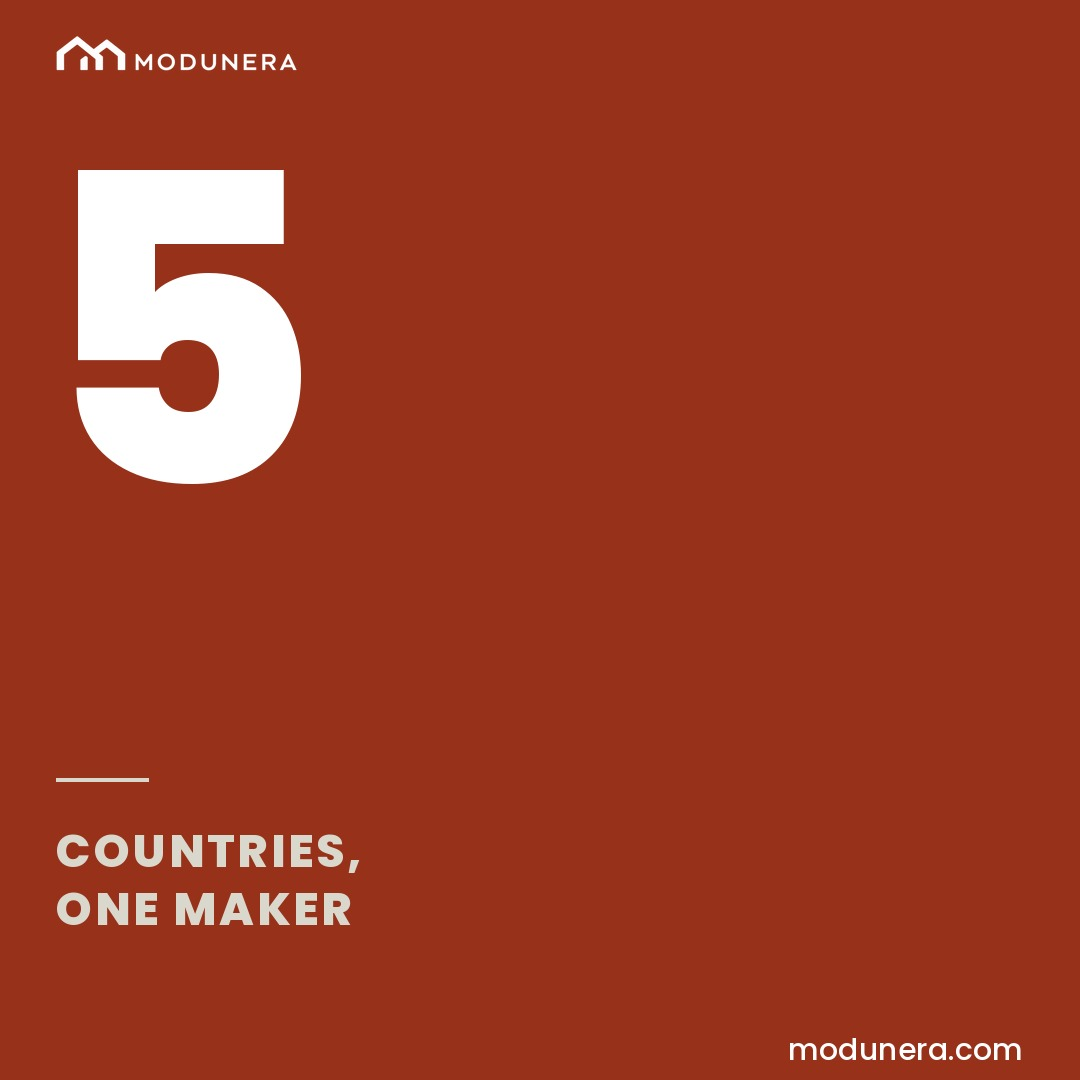
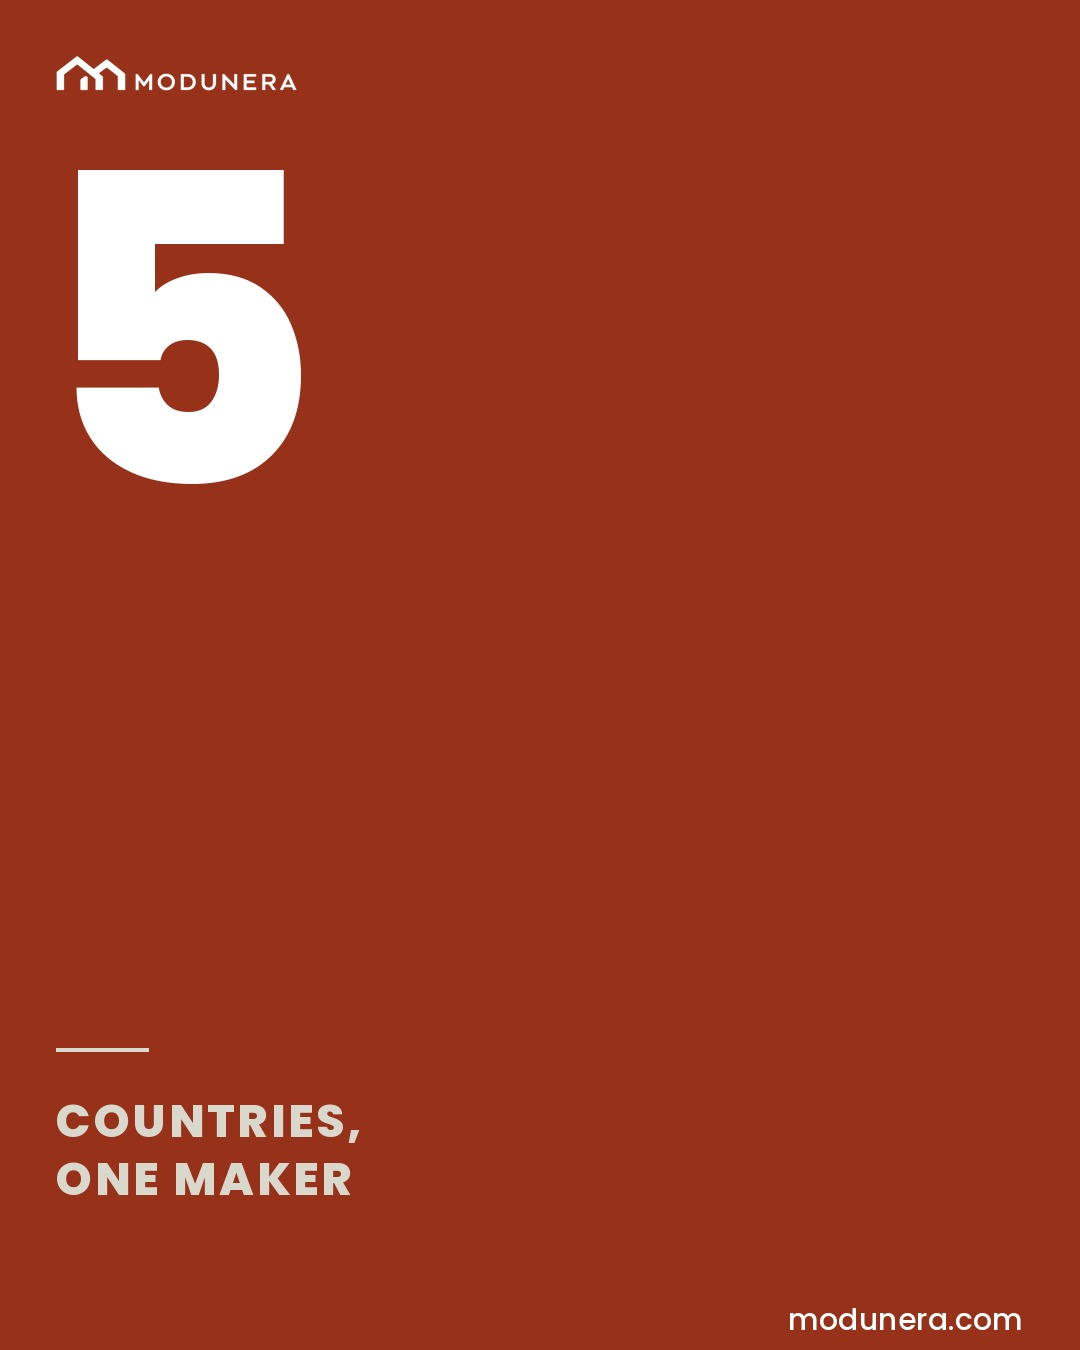
social: put the type back at the foot — the view count is the owner's own view
The caption was lifted 160 px clear of Instagram's grid view count. That was wrong
about who sees it: the count over a tile is shown to the account holder and not to
a visitor. It is public on Reels, which is a different surface. So it was never a
reason to move anything on these, and the layout carried the compromise for
nothing.

Back at the foot, and now using the whole frame. The old position kept the caption
135 px up from the bottom because that band was assumed to be cropped away in the
grid; the tile shows the full 4:5, so the type sits where the picture ends.

All nine are 1080x1350 — the tile's own ratio, so nothing is cropped on upload and
there is no grid preview to choose. Worst element measures 4.5:1 or better.

diff --git a/tools/social/build_instagram_grid.py b/tools/social/build_instagram_grid.py
@@ -142,12 +142,11 @@ def contrast(a: tuple[int, int, int], b: tuple[int, int, int]) -> float:
 SAFE_TOP = 0
 SAFE_BOTTOM = 0
 
-# Instagram draws its own furniture on top of the grid tile: a view count with an
-# eye icon at the bottom left, and a reel or carousel mark at the top right. The
-# count sat directly across the caption on every photographic post — visible in
-# the account as "0" over the words. Nothing of ours goes in either corner.
-IG_OVERLAY_BL = (0, 160)      # width, height of the bottom-left furniture, at 1080
-IG_OVERLAY_TR = (150, 130)
+# The view count that appears over the bottom-left of a grid tile is shown to the
+# account holder only; a visitor does not see it on a normal post. It is public on
+# Reels. So it is not a reason to move anything on these — the caption was lifted
+# clear of it for a week on a premise that only ever applied to the owner's own
+# view of the profile.
 # Tightened from 74. One margin for the logo, the caption, the card statement and
 # the domain, so everything sits on the same optical frame — a logo pulled left
 # while the caption below it stays put reads as a mistake, not as a decision.
@@ -158,10 +157,10 @@ MARGIN = 56
 # underneath. If those two ever disagreed the scrim would be solved for somewhere
 # the type is not, which is the failure this whole arrangement exists to prevent.
 DOMAIN_TEXT = "modunera.com"
-# Lifted clear of Instagram's view count, which sits in the bottom-left corner of
-# the tile and was printing straight across the caption. The domain stays at the
-# foot because it is on the right, where the corner is free.
-CAPTION_Y = POST_H - SAFE_BOTTOM - IG_OVERLAY_BL[1] - 78
+# At the foot, using the whole frame. The old value kept the caption 135 px up
+# from the bottom because that band was assumed to be cropped away in the grid;
+# the whole 4:5 is shown, so the type sits where the picture actually ends.
+CAPTION_Y = POST_H - SAFE_BOTTOM - 165
 CAPTION_SIZE = 37
 CAPTION_TRACK = CAPTION_SIZE * 0.15 * 0.42
 LOGO_XY = (MARGIN, SAFE_TOP + MARGIN)
